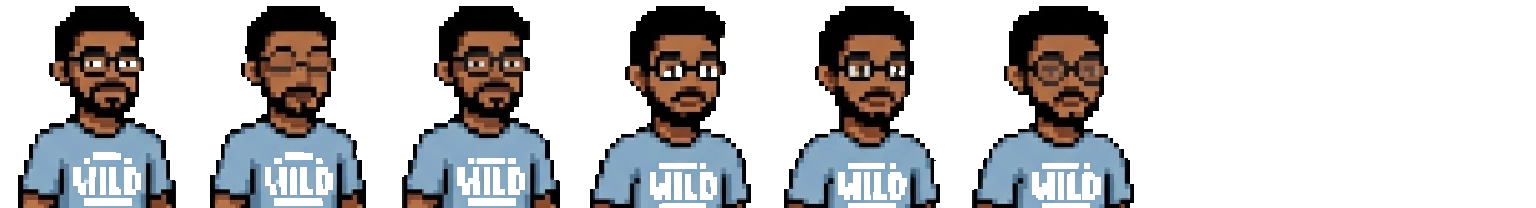
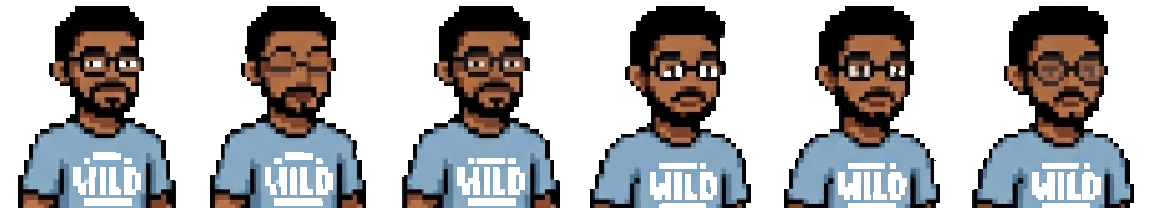
Changes

diff --git a/src/components/Pet.tsx b/src/components/Pet.tsx
@@ -9,7 +9,7 @@ const Pet: React.FC = () => {
   return (
     <div
       aria-hidden
-      className="pointer-events-none select-none relative w-[96px] h-[78px] overflow-hidden"
+      className="pointer-events-none select-none relative w-[72px] h-[78px] overflow-hidden"
       onContextMenu={(e) => e.preventDefault()}
     >
       <style>{`
